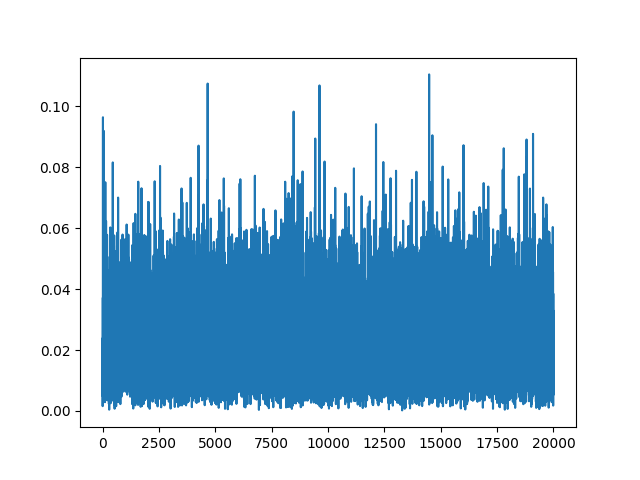
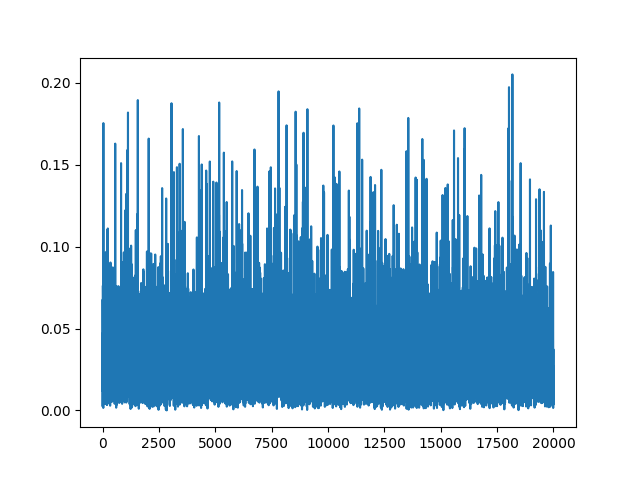
jacobian 3dof

diff --git a/src/run.py b/src/run.py
@@ -12,18 +12,19 @@ if __name__ == "__main__":
     # Globals
 
     DIM = 2
-    NJOINT = 2
+    NJOINT = 3
     IN_SINCOS = False
     OUT_ORIENTATION = False
 
-    NN = (32,16)
+    NN = (48,16)
     VALIDATION = False
     if VALIDATION:
         SET_MODEL_FILENAME = None
-        GET_MODEL_FILENAME = f"../Models/model_{DIM}_{NJOINT}.keras"
+        GET_MODEL_FILENAME = f"../Models/model_{NJOINT}dof_NN-{NN[0]}-{NN[1]}.keras"
     else:
-        SET_MODEL_FILENAME = f"../Models/model_{DIM}_{NJOINT}.keras"
+        SET_MODEL_FILENAME = f"../Models/model_{NJOINT}dof_NN-{NN[0]}-{NN[1]}.keras"
         GET_MODEL_FILENAME = None
+        # GET_MODEL_FILENAME = f"../Models/model_{NJOINT}dof_NN-{NN[0]}-{NN[1]}.keras"
 
 
     # ------------------------------------------------------------------------
@@ -103,21 +104,13 @@ if __name__ == "__main__":
     # ------------------------------------------------------------------------
     # Compare the Jacobian with the true Jacobian
 
-    thetas = np.random.random((100,2))
+    thetas = np.random.random((100, NJOINT)).astype(np.float32) * 2 * np.pi
     diffs = []
     for theta in thetas:
         J = jacobian.FK_Jacobian(model,theta)
         J_true = jacobian.fwd_kin_jacobian_true(theta)
         diff = tf.abs(J-J_true)
-        df_sum = tf.reduce_sum(diff) / 4
-        # if df_sum > 100:
-        #     print("Theta:", theta)
-        #     print("Jacobian from model:")
-        #     print(J)
-        #     print("True Jacobian:")
-        #     print(J_true)
-        #     print("Difference:")
-        #     print(diff)
+        df_sum = tf.reduce_sum(diff) / (NJOINT*2)
         diffs.append(df_sum)
 
 
@@ -126,13 +119,12 @@ if __name__ == "__main__":
 
     plt.figure()
     plt.plot(diffs)
-    plt.ylim(0, 0.6)
-    # mean diffs as red horizontal line
+    plt.ylim(0, 0.3)
     plt.axhline(y=np.mean(diffs), color='r', linestyle='--')
     plt.xlabel("Random theta")
     plt.ylabel("Difference")
     plt.title("Difference between true Jacobian and Jacobian from model")
-    plt.savefig(f"../Imgs/Jac_diffs/NN_{NN[0]}-{NN[1]}_s100.png")
+    plt.savefig(f"../Imgs/Jac_diffs/{NJOINT}DOF/NN_{NN[0]}-{NN[1]}_s100.png")
 
     print("\nJACOBIAN DIFFERENCE")
     print("Mean difference:", np.mean(diffs))

diff --git a/src/jacobian.py b/src/jacobian.py
@@ -2,24 +2,35 @@ import tensorflow as tf
 
 
 def fwd_kin_true(theta):
-    L1 = 0.1
-    L2 = 0.1
-    x = L1*tf.cos(theta[0]) + L2*tf.cos(theta[0] + theta[1])
-    y = L1*tf.sin(theta[0]) + L2*tf.sin(theta[0] + theta[1])
+    L = 0.1
+    x = L*tf.cos(theta[0]) + L*tf.cos(theta[0] + theta[1])
+    y = L*tf.sin(theta[0]) + L*tf.sin(theta[0] + theta[1])
+    if theta.shape[0] == 3:
+      x += L*tf.cos(theta[0] + theta[1] + theta[2])
+      y += L*tf.sin(theta[0] + theta[1] + theta[2])
     return tf.stack([x, y])
 
 def fwd_kin_jacobian_true(theta):
-    L1 = 0.1
-    L2 = 0.1
-    J11 = -L1*tf.sin(theta[0]) - L2*tf.sin(theta[0] + theta[1])
-    J12 = -L2*tf.sin(theta[0] + theta[1])
-    J21 = L1*tf.cos(theta[0]) + L2*tf.cos(theta[0] + theta[1])
-    J22 = L2*tf.cos(theta[0] + theta[1])
-    return tf.stack([[J11, J12], [J21, J22]])
+    L = 0.1
+    if theta.shape[0] == 2:
+      J11 = -L*tf.sin(theta[0]) - L*tf.sin(theta[0] + theta[1])
+      J12 = -L*tf.sin(theta[0] + theta[1])
+      J21 = L*tf.cos(theta[0]) + L*tf.cos(theta[0] + theta[1])
+      J22 = L*tf.cos(theta[0] + theta[1])
+      return tf.stack([[J11, J12], [J21, J22]])
+    elif theta.shape[0] == 3:
+      J11 = -L*tf.sin(theta[0]) - L*tf.sin(theta[0] + theta[1]) - L*tf.sin(theta[0] + theta[1] + theta[2])
+      J12 = -L*tf.sin(theta[0] + theta[1]) - L*tf.sin(theta[0] + theta[1] + theta[2])
+      J13 = -L*tf.sin(theta[0] + theta[1] + theta[2])
+      J21 = L*tf.cos(theta[0]) + L*tf.cos(theta[0] + theta[1]) + L*tf.cos(theta[0] + theta[1] + theta[2])
+      J22 = L*tf.cos(theta[0] + theta[1]) + L*tf.cos(theta[0] + theta[1] + theta[2])
+      J23 = L*tf.cos(theta[0] + theta[1] + theta[2])
+      return tf.stack([[J11, J12, J13], [J21, J22, J23]])
 
 def FK(model,theta):
+    njoints = theta.shape[0]
     # reshape to batch size 1
-    t = tf.reshape(theta, shape=(1,2))
+    t = tf.reshape(theta, shape=(1,njoints))
     out = model(t)
     # reshape to 1d vector
     out = tf.reshape(out, shape=(2,))

diff --git a/src/parse.py b/src/parse.py
@@ -26,6 +26,9 @@ def split_data(data, njoint, dimensions=2, test_size=0.2, random_state=42, consi
     if header is not None:
         print(f"[V] Splitting {header[:attributes]} as inputs")
 
+    if not consider_sincos:
+        attributes += 2*njoint
+
     if consider_orientation:
         # Consider quaternion orientation as well
         y = data[:, attributes:]
@@ -35,7 +38,7 @@ def split_data(data, njoint, dimensions=2, test_size=0.2, random_state=42, consi
         # Consider x, y, z coordinates only
         y = data[:, attributes:attributes+dimensions]
         if header is not None:
-            print(f"[V] Splitting {header[attributes:attributes+dimensions]} as attributes")
+            print(f"[V] Splitting {header[attributes:attributes+dimensions]} as outputs")
     
     X_train, X_test, y_train, y_test = train_test_split(X, y, test_size=test_size, random_state=random_state)
     return X_train, X_test, y_train, y_test
